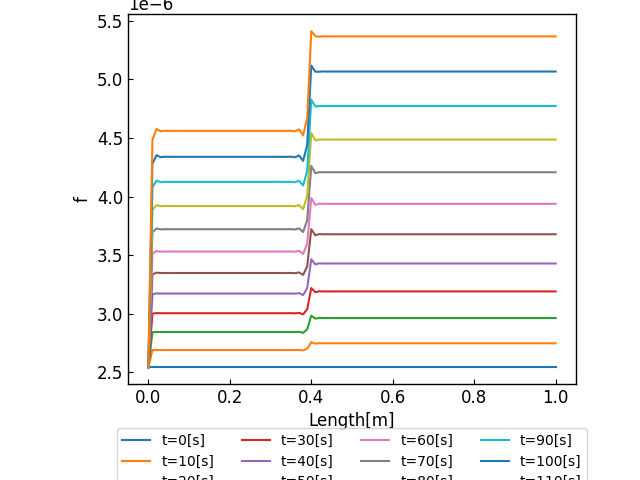
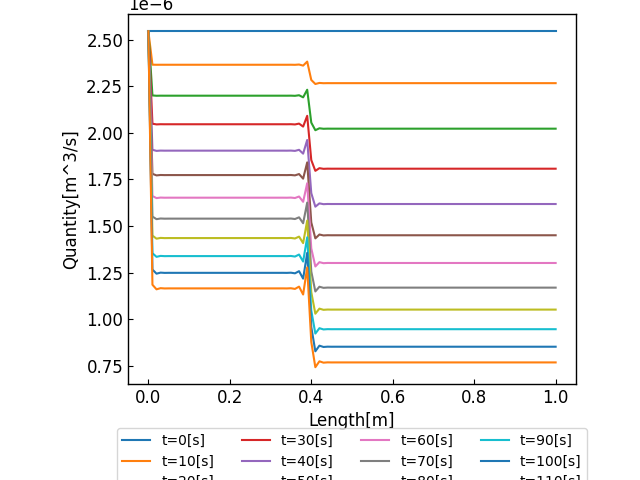
縦軸のラベルを修正

diff --git a/Q.py b/Q.py
@@ -29,7 +29,7 @@ for j in range(ITERATED_TIME):
     plt.plot(length, flowQuantities[j])
 
 plt.xlabel("Length[m]")
-plt.ylabel("f")
+plt.ylabel("Quantity[m^3/s]")
 
 # Legend
 plt.legend(

diff --git a/A.py b/A.py
@@ -31,7 +31,7 @@ for i in range(ITERATED_TIME):
 
 
 plt.xlabel("Length[m]")
-plt.ylabel("f")
+plt.ylabel("Area[m^2]")
 
 # Legend
 plt.legend(
